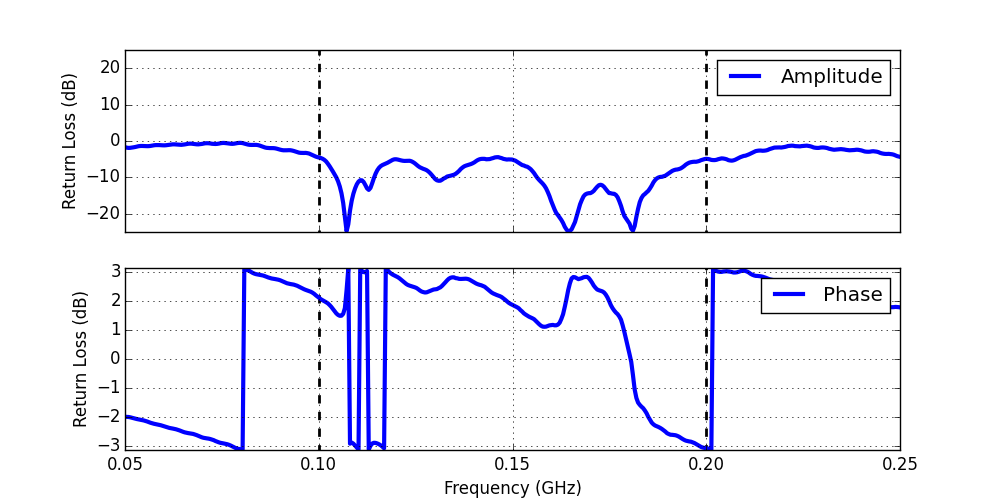
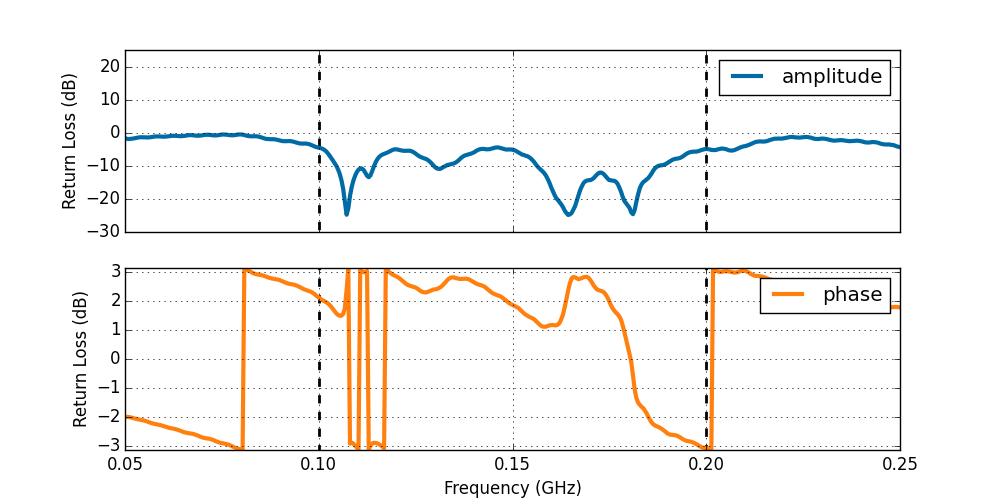
update frequency figure

diff --git a/plots/plot_frequency.py b/plots/plot_frequency.py
@@ -25,24 +25,24 @@ p.xlabel('Frequency (GHz)' )
 p.ylabel('Return Loss (dB)')
 p.grid(1)
 p.xlim(.05,.250)
-p.ylim(-25,25)
+p.ylim(-30,25)
 p.vlines(.1, -100, 100, linestyle='--', linewidth=2)
 p.vlines(.2, -100, 100, linestyle='--', linewidth=2)
 p.legend()
 
 
 fig, (ax1,ax2) = p.subplots(2,1, figsize=(10,5), sharex=True)
-ax1.plot(freqs, amps, linewidth=3, label='Amplitude')
+ax1.plot(freqs, amps, linewidth=3, label='amplitude', color=(0,107/255.,164/255.))
 ax1.set_ylabel('Return Loss (dB)')
 ax1.grid(1)
 ax1.set_xlim(.05,.250)
-ax1.set_ylim(-25,25)
+ax1.set_ylim(-30,25)
 #p.setp(axes[0].get_xticklabels(), visible=False)
 ax1.vlines(.1, -100, 100, linestyle='--', linewidth=2)
 ax1.vlines(.2, -100, 100, linestyle='--', linewidth=2)
 ax1.legend()
 
-ax2.plot(freqs, phase*n.pi/180., linewidth=3, label='Phase')
+ax2.plot(freqs, phase*n.pi/180., linewidth=3, label='phase', color=(1,128/255.,14/255.))
 ax2.set_xlabel('Frequency (GHz)' )
 ax2.set_ylabel('Return Loss (dB)')
 ax2.grid(1)
